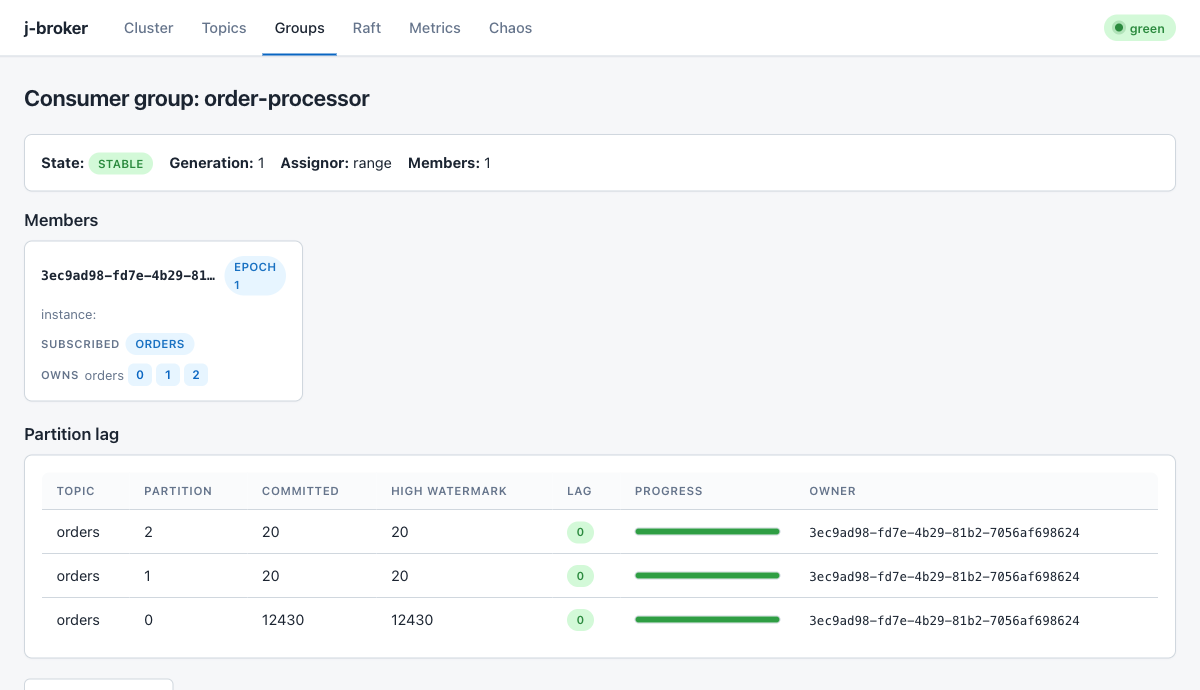
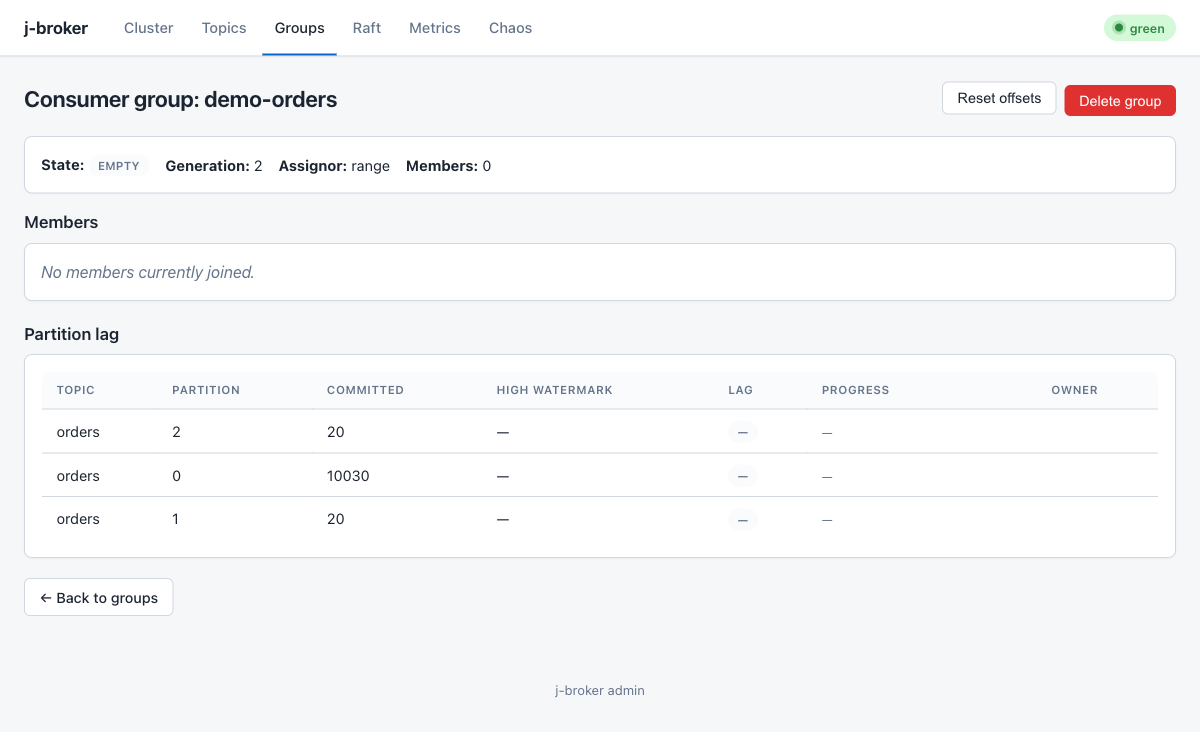
docs(readme): refresh screenshots + content after v1.4 + post-merge audit cycle
Screenshots re-taken against a fresh 3-broker docker-compose stack on
current main (PRs #100–#105 applied): every page reflects the live-topology
chaos SVG, the topic-detail force-compact + edit-config actions, the
group-detail reset-offsets + delete-group buttons, the properly-sized
metrics charts (Chart.js inside `.chart-frame`), the relative-time
rendering for epoch columns, and the nodes-table concrete-role merge.

Content updates:
- "What it does" bullet mentions edit-config + reset/delete groups + live
  topology chaos.
- Admin UI tour explains the merge path (ClusterController + TopicsController),
  the lag-sentinel em-dash fallback, and every new action (force compact,
  edit config, reset offsets, delete group, inject latency, heal all).
- REST surface table adds `GET /chaos/state`.
- Admin UI pages table notes the delegation-to-merge path, the chart-frame
  wrapper, and the chaos live-topology.
- Roadmap: Phase 15 now [x] done; new Phase 16 line captures the chaos
  topology + view-merge + modals/actions/polish + post-merge audit fixes.
- Testing: unit-test count updated from ~200 to ~550 per-module with
  view-controller delegation coverage called out.

No code changes in this commit — README + docs/screenshots only.

diff --git a/README.md b/README.md
@@ -49,7 +49,7 @@ j-broker is a Kafka-shaped message broker that I built from scratch as a learnin
 - **Idempotent producer** — `(producer_id, epoch, base_sequence)` triple deduplicates retries server-side.
 - **Consumer groups** — join/heartbeat/leave, cooperative-sticky-ish assignment, offset commit + fetch, coordinator-partition sharding over `__consumer_offsets`.
 - **Log compaction** — Kafka-style latest-value-per-key; preserves original absolute offsets so pre-compaction consumer offsets still resolve (P12.4).
-- **Admin REST + Thymeleaf UI** — RabbitMQ-management-plugin flavour: list topics, describe partitions, force-compact, reset/delete consumer groups, Raft state, metrics sparklines, chaos controls.
+- **Admin REST + Thymeleaf UI** — RabbitMQ-management-plugin flavour: list topics, describe partitions with live HWM/LEO, edit topic config in-browser, force-compact from the UI, reset / delete consumer groups, Raft state, metrics sparklines, chaos controls with live topology, SSE-driven events rail.
 - **Chaos HTTP** — kill / pause / network-partition / force-election endpoints on each broker, driven from the admin Chaos page or cURL.
 - **Prometheus + Grafana** — `/actuator/prometheus` on admin-app, two dashboards auto-provisioned.
 - **JFR + async-profiler** — six custom JFR events on hot paths (`RaftTermChange`, `PartitionLeaderChange`, `FsyncDuration`, `ReplicationLag`, `ProduceLatency`, `FetchLatency`).
@@ -137,13 +137,13 @@ The admin UI is a RabbitMQ-management-plugin-inspired dashboard served from `adm
 
 ### Cluster overview
 
-High-level counts, live throughput, and a force-directed topology of the cluster. Controller (Raft leader) is rendered with a yellow ring.
+High-level counts, live throughput, a force-directed topology of the cluster, and the nodes table with role + last-seen. Controller (Raft leader) renders with a yellow ring; peer brokers contribute their own self-reported roles so the UI never shows `UNKNOWN` on live members (the view controller fans out across brokers and merges self-reports — see `ClusterController.mergeSelfReportedRoles`). Epoch-millis timestamps render as relative times (`just now`, `3s ago`) via a small client-side helper.
 
 ![Cluster overview](docs/screenshots/overview.png)
 
 ### Topics
 
-List of user + internal topics with partition counts, replication factor, compact-policy flag, and creation time.
+List of user + internal topics with partition counts, replication factor, the effective compact flag (OR of the proto field and `cleanup.policy=compact`), and creation time formatted relative to now.
 
 ![Topics list](docs/screenshots/topics.png)
 
@@ -151,11 +151,11 @@ List of user + internal topics with partition counts, replication factor, compac
 
 ### Topic detail
 
-Per-partition state: leader broker, leader epoch, ISR (green pills for in-sync replicas), high-watermark and log-end-offset when the partition has a live leader.
+Per-partition state: leader broker, leader epoch, ISR (green pills for in-sync replicas, red for out-of-sync), high-watermark and log-end-offset. HWM/LEO come from the merge of every broker's response — a non-leader replica returns `-1` sentinels and the UI overlays leader-reported values so every partition card shows real numbers, not "no live leader" next to a real leader badge.
 
 ![Topic detail](docs/screenshots/topic-detail.png)
 
-Force-compact sends `POST /api/v1/topics/{name}/partitions/{p}/compact`, fans across every broker hosting the partition, sums the retained counts and returns `{records_kept, brokers_compacted}`.
+**Force compact** (per-partition button) sends `POST /api/v1/topics/{name}/partitions/{p}/compact`, fans across every broker hosting the partition, sums the retained counts, and flashes `compacted N records across M broker(s)` in-page. **Edit config** opens a modal pre-filled with the current overlay; the key/value textarea submits as `PATCH /api/v1/topics/{name}/config` and the page reloads to show the merged values. **Delete** is a confirm-gated form POST that routes to the Raft leader.
 
 ### Consumer groups
 
@@ -163,9 +163,11 @@ Lists every group tracked by the coordinator with state, member count, generatio
 
 ![Consumer groups](docs/screenshots/groups.png)
 
-Group detail shows the member slot, which partitions it owns, and a per-partition lag table with progress bars.
+Group detail shows the member slot, which partitions it owns, and a per-partition lag table with progress bars. Lag rendered as `—` (neutral pill) when the responding broker isn't a partition leader and can't read HWM — avoids the false "lag 0, healthy" signal on groups whose coordinator lives elsewhere.
 
 ![Consumer group detail](docs/screenshots/group-detail.png)
+
+**Reset offsets** opens a modal with `{topic, partition, offset, leader_epoch}` fields and POSTs to `/api/v1/consumer-groups/{id}/reset-offsets`. **Delete group** is a confirm-gated red button that calls `DELETE /api/v1/consumer-groups/{id}` through the view controller.
 
 ### Raft
 
@@ -183,12 +185,13 @@ Backed by `GET /api/v1/metrics/timeseries?window={30s|5m|1h}`; the `ThroughputHi
 
 ### Chaos
 
-Live failure-injection controls. Requires `JBROKER_CHAOS_PORT` to be set in the compose env. Actions:
+Live failure-injection controls. Requires `JBROKER_CHAOS_PORT` to be set in the compose env. A live topology SVG at the top repaints every 3s off `/api/v1/cluster` + `/api/v1/chaos/state` so injected states (paused, latency, partition) show up visually within a tick. Actions:
 
 - **Kill** a broker (process exits, Docker's restart policy brings it back).
 - **Pause / Resume** — freezes the broker's reactor without closing sockets, so heartbeats stop flowing.
 - **Force election** — sends the broker a self-addressed `TimeoutNow` to trigger immediate candidate transition.
-- **Network partition** — bidirectional block between two brokers on the gRPC plane.
+- **Inject latency** — adds N ms to every outbound gRPC reply on the target broker.
+- **Network partition** — bidirectional block between two brokers on the gRPC plane. **Heal all** clears every partition cluster-wide in one shot.
 - The SSE-backed **Live events** panel on the right replays broker events as they happen.
 
 ![Chaos controls](docs/screenshots/chaos.png)
@@ -531,6 +534,7 @@ All paths are under `/api/v1/`. JSON is snake_case throughout (Jackson configure
 | `GET` | `/metrics/timeseries?window=5m` | Server-side history for sparklines (P14.3) |
 | `GET` | `/events` | Server-Sent Events stream (`Last-Event-ID` supported) |
 | `GET` | `/health/badge` | 5s-polled health pill for the top nav |
+| `GET` | `/chaos/state` | Per-broker chaos snapshot `{available, paused, latency_ms, outbound_blocked_peers, inbound_blocked_peers}` — drives the live topology SVG |
 | `POST` | `/chaos/kill-broker/{id}` | Exit the broker process (requires chaos port) |
 | `POST` | `/chaos/pause-broker/{id}` | Freeze the broker's reactor |
 | `POST` | `/chaos/resume-broker/{id}` | Unfreeze |
@@ -547,14 +551,14 @@ The admin app serves eight Thymeleaf pages under the same top-nav shell (`fragme
 
 | Route | Template | What it shows |
 |---|---|---|
-| `/` | `index.html` | Overview dashboard + topology |
+| `/` | `index.html` | Overview dashboard + topology (delegates to `ClusterController.cluster()` merge) |
 | `/topics` | `topics.html` | Topic list + create modal |
-| `/topics/{name}` | `topic-detail.html` | Per-partition state + delete button |
+| `/topics/{name}` | `topic-detail.html` | Per-partition state + force-compact buttons + edit-config modal + delete (delegates to `TopicsController.describeTopic` merge) |
 | `/groups` | `groups.html` | Consumer group list |
-| `/groups/{id}` | `group-detail.html` | Members + partition lag |
+| `/groups/{id}` | `group-detail.html` | Members + partition lag + reset-offsets modal + delete-group button |
 | `/raft` | `raft.html` | Raft state table |
-| `/metrics` | `metrics.html` | Throughput + latency sparklines |
-| `/chaos` | `chaos.html` | Failure-injection panel |
+| `/metrics` | `metrics.html` | Throughput + latency line charts (Chart.js inside `.chart-frame` wrappers for stable sizing) |
+| `/chaos` | `chaos.html` | Live topology SVG + per-broker action grid + SSE events rail |
 
 The top-nav carries a live health pill (green/yellow/red) polled from `/api/v1/health/badge` every 5s. Pages use htmx for partial refreshes and Alpine.js for tiny interactions (modals, toggles) — no build step, no webpack.
 
@@ -751,7 +755,7 @@ Raw CSV in `docs/bench/results.csv`. Regenerate via `scripts/bench/run-readme-be
 
 ## Testing
 
-- **Unit tests** — ~200 across `raft-core`, `raft-transport`, `broker-storage`, `broker-core`, `admin-app`. Log append/read/fsync/recovery, Raft election safety, log-matching + truncation, conflict-index backoff, HWM advancement, sparse-offset compaction, consumer-group coordinator, idempotent producer dedup, admin-REST merging.
+- **Unit tests** — ~550 across `raft-core` (~80), `raft-transport` (~10), `broker-storage` (~35), `broker-core` (~270), `admin-app` (~70), `broker-app` (~60). Log append/read/fsync/recovery, Raft election safety, log-matching + truncation, conflict-index backoff, HWM advancement, sparse-offset compaction, consumer-group coordinator, idempotent producer dedup, admin-REST cluster + topic merge logic, view-controller delegation (proves the UI uses merged fan-out, not single-broker snapshots).
 - **Integration tests** — in `integration-tests/` and `broker-app/src/test`. Multi-broker replication, acks=all durability, partition-leader failover, group churn, chaos-kill-broker, 10k concurrent clients (CI-grade variant), 1M-record compaction (@slow), force-compact round-trip, preferred-leader balancer convergence.
 - **Stress** — `./gradlew :integration-tests:stressTest` — 100 randomized election cycles.
 - **Chaos simulator** — `simulator/` runs deterministic Raft scenarios with crash injection and invariant assertions across 10k seeds.
@@ -799,11 +803,8 @@ Where the project is, phase by phase:
 - [x] **Phase 12** — Perf bench module, sparse-offset compaction, preferred-leader balancer wiring, real-RESP Redis quota enforcer, admin consumer-group mutations.
 - [x] **Phase 13** — v1.1 correctness-gap closers: force-compact admin RPC + IT, consumer-group admin-mutation round-trip ITs, balancer-rebalance IT, CI-grade 10k-client smoke, README bench table, Redis pub/sub SSE fan-out.
 - [x] **Phase 14** — Admin UI reliability: `x-cloak` modal-flash fix + self-hosted Alpine/htmx/Chart.js in `admin-app/.../static/vendor/` (Chrome ORB was blocking the unpkg CDN); `/metrics` sparklines wired to snake_case fields; `GET /api/v1/metrics/timeseries` + `ThroughputHistory` ring so overview + metrics hydrate on load instead of starting blank; `j-broker consume --group G --topic T` subcommand backed by the real `Consumer` library so the Groups page actually populates.
-
-Phase 15 (in flight — production hardening):
-- **P15.1** — Broker advertised host/port so external clients reach published Docker ports without `docker exec`.
-- **P15.2** — mTLS between brokers + admin + clients on the gRPC plane.
-- **P15.3** — Helm chart for Kubernetes.
+- [x] **Phase 15** — Production hardening: broker advertised host/port (external clients reach published Docker ports without `docker exec`), mTLS on the gRPC plane between brokers + admin + clients, Helm chart for Kubernetes.
+- [x] **Phase 16** — Admin UI depth + post-merge audit cycle: live chaos topology SVG + `GET /api/v1/chaos/state` endpoint; view controllers delegate to the REST-merge path so overview + topic-detail render concrete roles and real HWM/LEO on every page load (not the first-successful-broker's self-centric snapshot); `/groups/{id}` reset-offsets modal + delete-group button wired to the existing REST; `/topics/{name}` force-compact + edit-config actions; unified `<footer>` fragment, favicon placeholder, relative-time rendering for epoch-millis columns; post-merge Playwright audit closed with modal centring (`.modal-overlay` CSS class — Alpine's `x-show` stomps inline `display: flex`), metrics chart sizing (Chart.js needs a `position: relative` wrapper with explicit height), LAG column em-dash fallback when HWM is sentinel, Compact-column derivation from `cleanup.policy`, Alpine init-race guard on the chaos feed, and `window_seconds: null` on idle `/metrics/throughput` so scrapers don't divide by zero.
 
 ---
 
